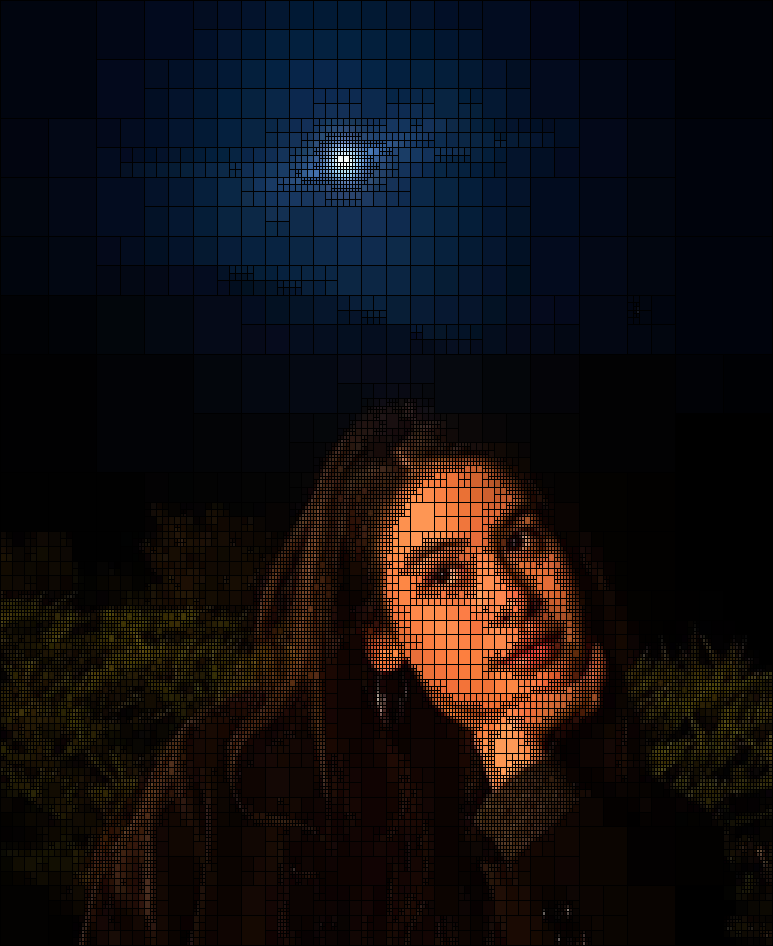
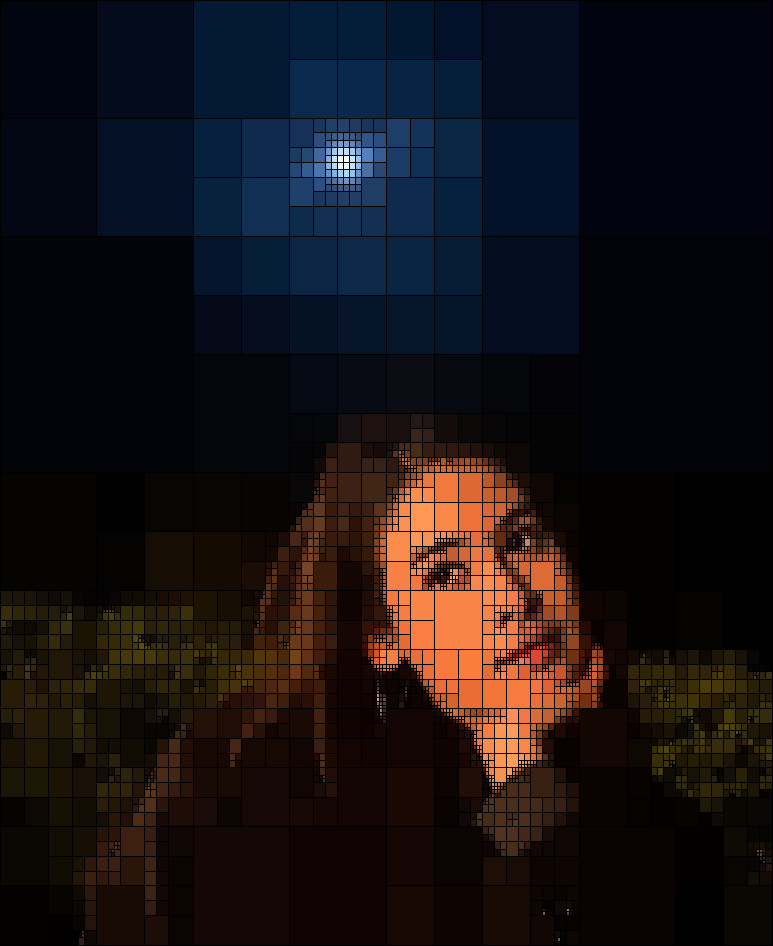
add image processing

diff --git a/src/imageprocessing.py b/src/imageprocessing.py
@@ -1,7 +1,10 @@
+import time
+
 from PIL import Image, ImageDraw
 from collections import Counter
 import heapq
 import sys
+from time import sleep
 from PyQt5.QtWidgets import QApplication, QWidget, QLabel, QVBoxLayout, QPushButton, QLineEdit
 from PyQt5.QtGui import QIcon, QPixmap
 
@@ -164,7 +167,7 @@ class Window(QWidget):
 
         self.lineedit1 = QLineEdit(self)
 
-        self.btn1 = QPushButton("Show Message", self)
+        self.btn1 = QPushButton("Process Image", self)
         self.btn1.clicked.connect(self.calculate_image)
         vbox.addWidget(self.btn1)
         vbox.addWidget(self.lineedit1)
@@ -182,15 +185,19 @@ class Window(QWidget):
                     model.render('frames/%06d.png' % i)
                 previous = error
             model.split()
+            #time.sleep(3)
+            # model.render(f'output{i}.png')
+            self.label.setPixmap(QPixmap(model.render(f'output{i}.png')))
+            self.resize(self.pixmap.width(), self.pixmap.height())
         model.render('output.png')
         self.label.setPixmap(QPixmap('output.png'))
         self.resize(self.pixmap.width(), self.pixmap.height())
         # print('-' * 32)
-        depth = Counter(x.depth for x in model.quads)
-        for key in sorted(depth):
-            value = depth[key]
-            n = 4 ** key
-            pct = 100.0 * value / n
+        # depth = Counter(x.depth for x in model.quads)
+        # for key in sorted(depth):
+        #     value = depth[key]
+        #     n = 4 ** key
+        #     pct = 100.0 * value / n
             # print('%3d %8d %8d %8.2f%%' % (key, n, value, pct))
         # print('-' * 32)
         # print('             %8d %8.2f%%' % (len(model.quads), 100))
